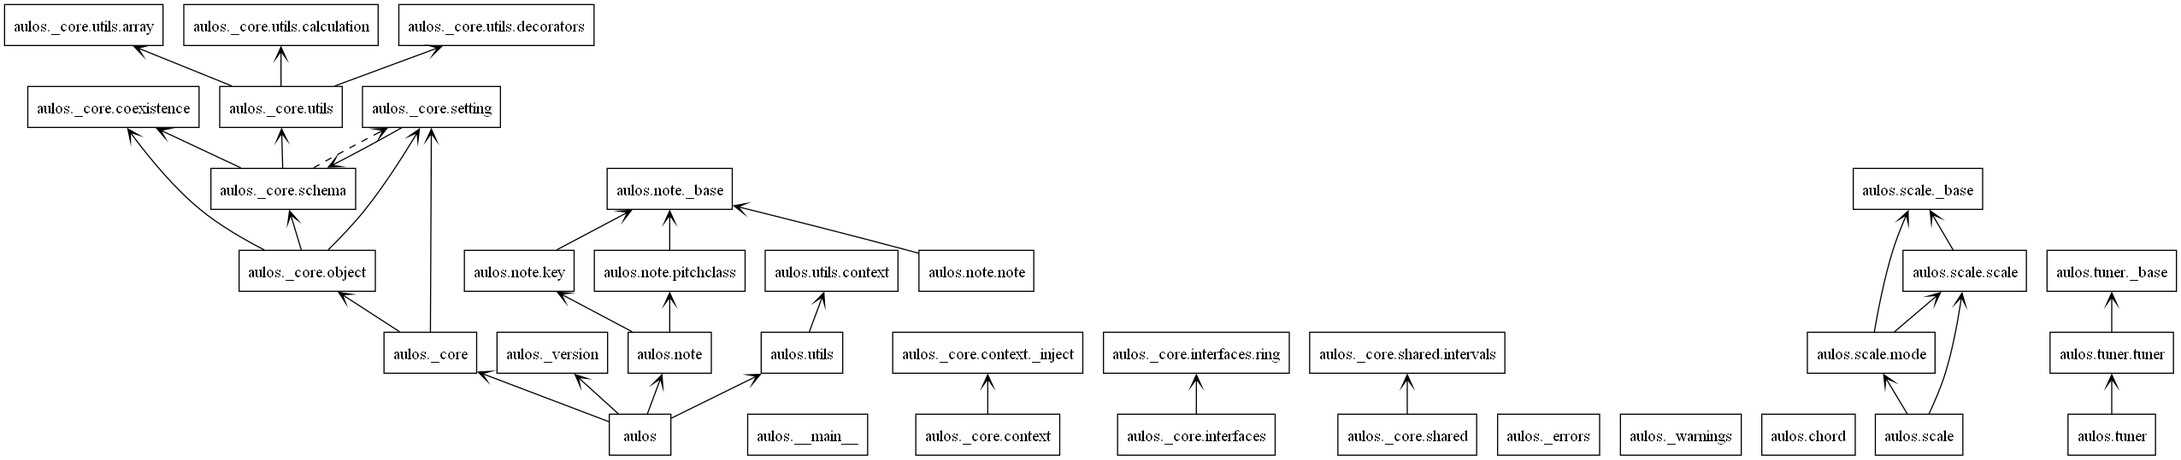
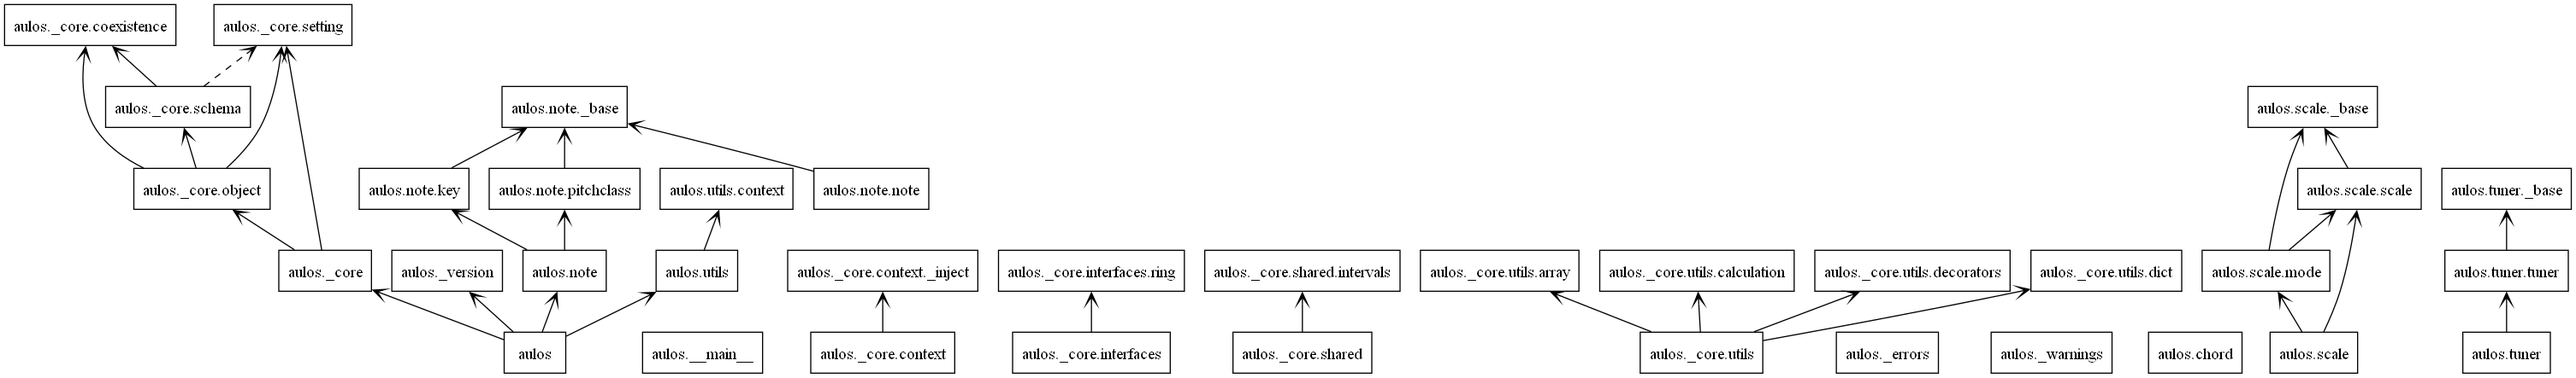
daciteを使用しない修正 途中

diff --git a/src/aulos/_core/utils/dataclass.py b/src/aulos/_core/utils/dataclass.py
@@ -1,0 +1,51 @@
+import typing as t
+from dataclasses import is_dataclass, fields, dataclass
+from functools import update_wrapper
+
+
+def from_dict[T](cls: type[T], value: dict[str, t.Any]) -> T:
+    # 1. Check if the provided class is a dataclass
+    if not is_dataclass(cls):
+        raise ValueError(f"The provided class {cls.__name__} is not a dataclass type.")
+
+    # 2. Convert list type in dictionary to tuple type
+    # 3. Recursively convert dict to dataclass
+    init_dict = {}
+    dfields_type = {f.name: f.type for f in fields(cls)}
+    dfields_init = {f.name: f.init for f in fields(cls)}
+
+    for k, v in value.items():
+        if k in dfields_type:
+            # no initialize parameter
+            if not dfields_init[k]:
+                continue
+            # initialize parameter
+            if isinstance(v, dict):
+                init_dict[k] = from_dict(dfields_type[k], v)
+            elif isinstance(v, list):
+                init_dict[k] = tuple(v)
+            else:
+                init_dict[k] = v
+
+    return cls(**init_dict)
+
+
+def initializer(cls):
+
+    class _:
+        def aiueo(self) -> int: ...
+
+    setattr(cls, from_dict.__class__.__name__, from_dict)
+    update_wrapper(from_dict, cls)
+    return cls
+
+
+class _:
+    def aiueo(self) -> int: ...
+
+
+@initializer
+class A: ...
+
+
+A()

diff --git a/src/aulos/utils/context.py b/src/aulos/utils/context.py
@@ -4,10 +4,9 @@ import tomllib
 from pathlib import Path
 from contextlib import ContextDecorator
 from contextvars import ContextVar
-from dacite import from_dict, Config as dacite_Config
 
 from .._core import Object, Setting
-from .._core.utils import convert_lists_to_tuples
+from .._core.utils import from_dict
 
 
 @t.final
@@ -32,15 +31,11 @@ class Context(ContextDecorator, Object):
     @classmethod
     def from_toml(cls, path: Path) -> t.Self:
         setting = tomllib.load(open(path, mode="rb"))
-
-        setting = convert_lists_to_tuples(setting)
-        print(setting)
-        setting = from_dict(Setting, setting, dacite_Config(check_types=False))
+        setting = from_dict(Setting, setting)
         return cls(setting)
 
     @classmethod
     def from_json(cls, path: Path) -> t.Self:
         setting = json.load(open(path, mode="rb"))
-        setting = convert_lists_to_tuples(setting)
-        setting = from_dict(Setting, setting, dacite_Config(check_types=False))
+        setting = from_dict(Setting, setting)
         return cls(setting)

diff --git a/src/aulos/_core/utils/__init__.py b/src/aulos/_core/utils/__init__.py
@@ -1,7 +1,7 @@
 from .array import index, rotate, search
 from .calculation import diff
 from .decorators import classproperty
-from .dict import convert_lists_to_tuples
+from .dataclass import from_dict
 
 __all__ = [
     "search",
@@ -9,5 +9,5 @@ __all__ = [
     "rotate",
     "diff",
     "classproperty",
-    "convert_lists_to_tuples",
+    "from_dict",
 ]
